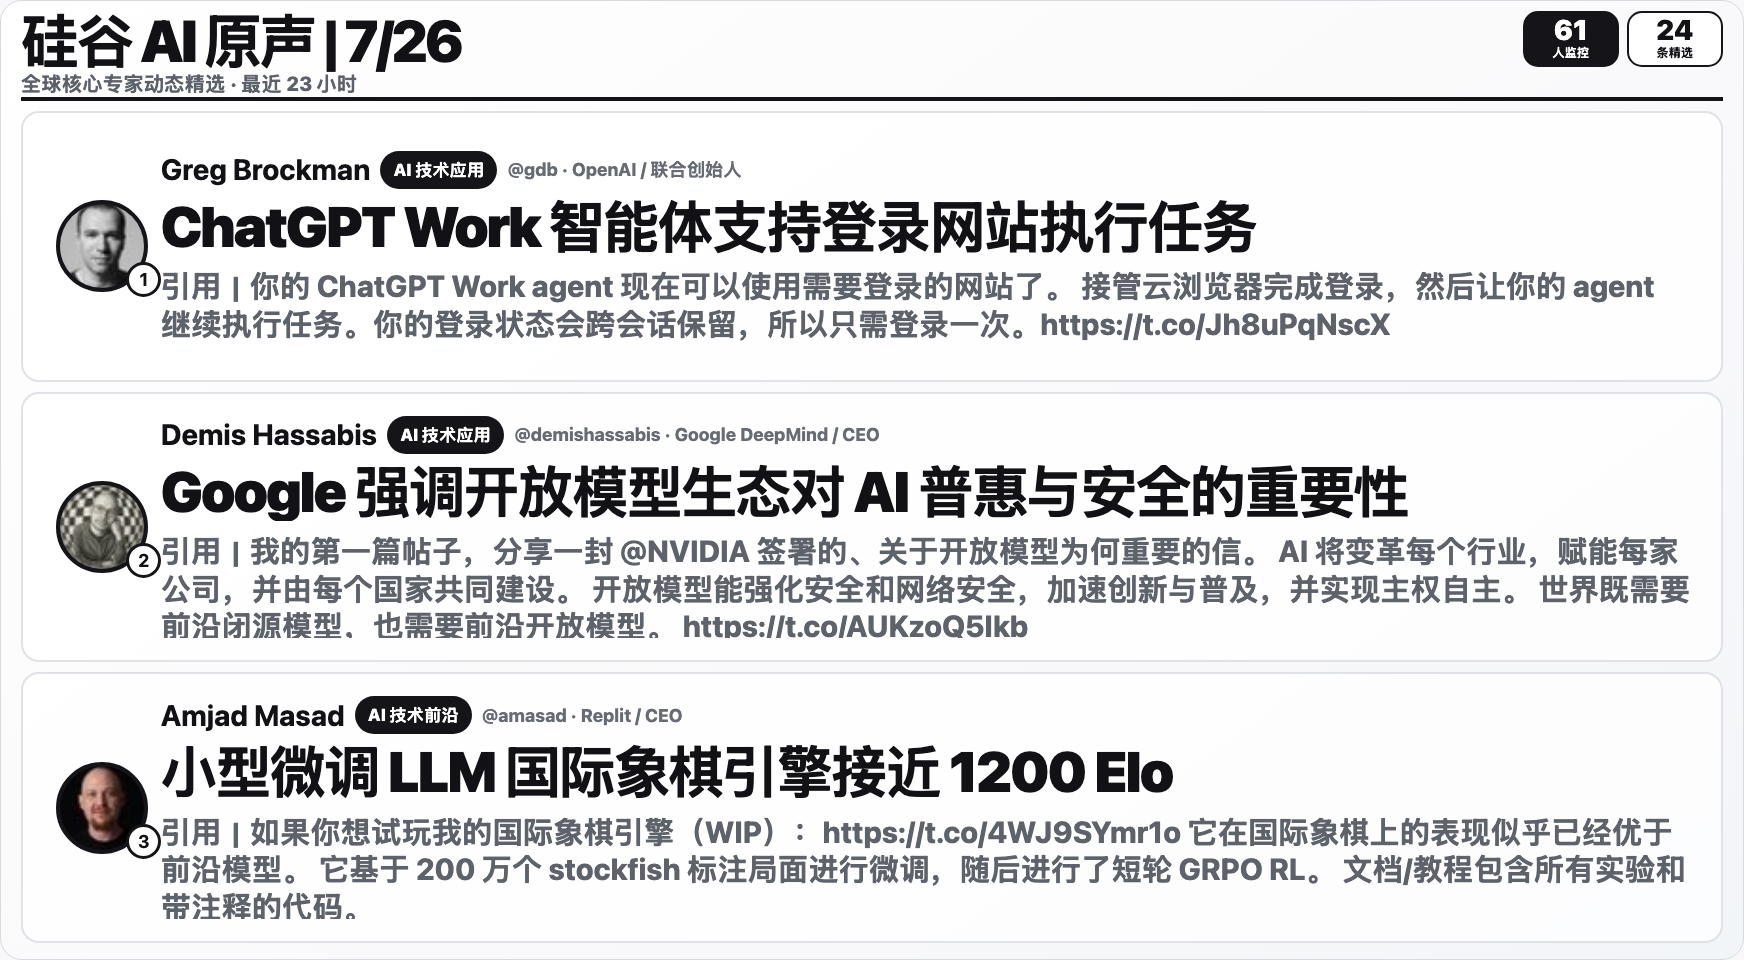
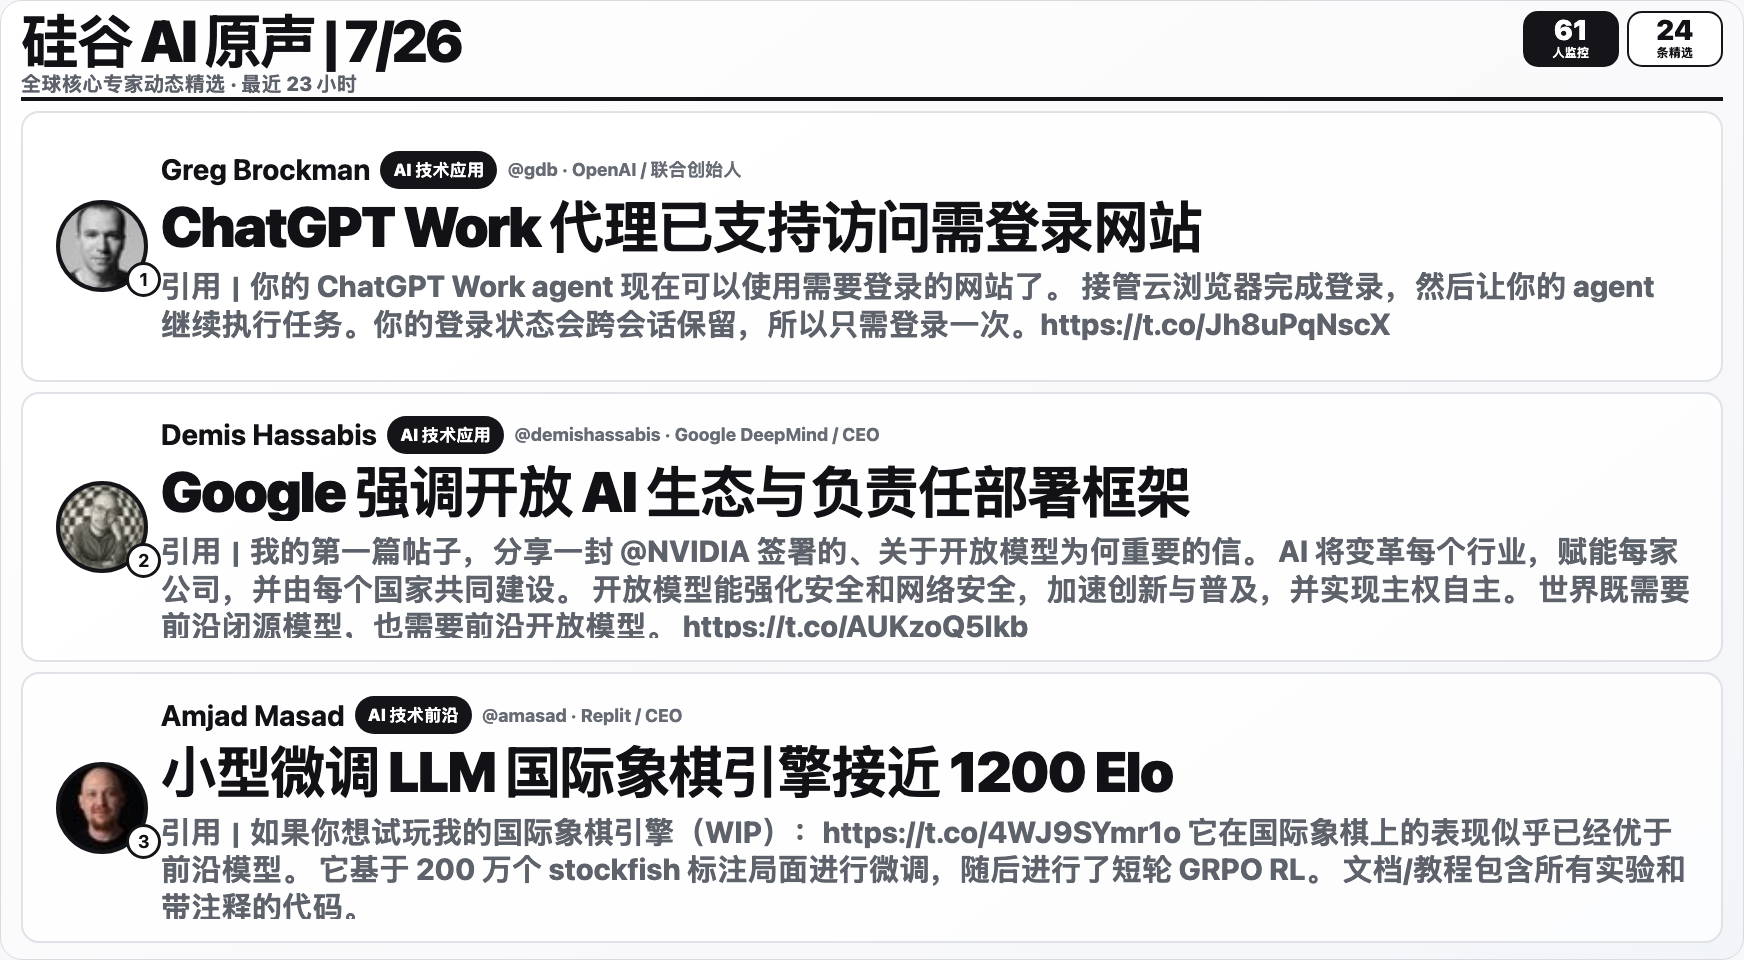
chore: publish AI radar 20260726 0701 Beijing

Changed region(s): [[0.3096, 0.4688, 0.805, 0.5625], [0.4644, 0.1875, 0.7431, 0.2812], [0.3096, 0.1875, 0.4025, 0.2812]]

diff --git a/ai-v-radar/20260726/poster.html b/ai-v-radar/20260726/poster.html
@@ -20,7 +20,7 @@
         <div class="portrait"><div class="avatar"><img src="https://pbs.twimg.com/profile_images/1347621377503711233/bHg3ipfD_normal.jpg" alt="Greg Brockman"></div><b>1</b></div>
         <div class="story-body">
           <div class="byline"><strong>Greg Brockman</strong><em>AI 技术应用</em><span>@gdb · OpenAI / 联合创始人</span></div>
-          <h2>ChatGPT Work 智能体支持登录网站执行任务</h2>
+          <h2>ChatGPT Work 代理已支持访问需登录网站</h2>
           <p>引用｜你的 ChatGPT Work agent 现在可以使用需要登录的网站了。
 
 接管云浏览器完成登录，然后让你的 agent 继续执行任务。你的登录状态会跨会话保留，所以只需登录一次。https://t.co/Jh8uPqNscX</p>
@@ -29,7 +29,7 @@
         <div class="portrait"><div class="avatar"><img src="https://pbs.twimg.com/profile_images/1990472620614053888/xrAu0wQL_normal.jpg" alt="Demis Hassabis"></div><b>2</b></div>
         <div class="story-body">
           <div class="byline"><strong>Demis Hassabis</strong><em>AI 技术应用</em><span>@demishassabis · Google DeepMind / CEO</span></div>
-          <h2>Google 强调开放模型生态对 AI 普惠与安全的重要性</h2>
+          <h2>Google 强调开放 AI 生态与负责任部署框架</h2>
           <p>引用｜我的第一篇帖子，分享一封 @NVIDIA 签署的、关于开放模型为何重要的信。
 
 AI 将变革每个行业，赋能每家公司，并由每个国家共同建设。
